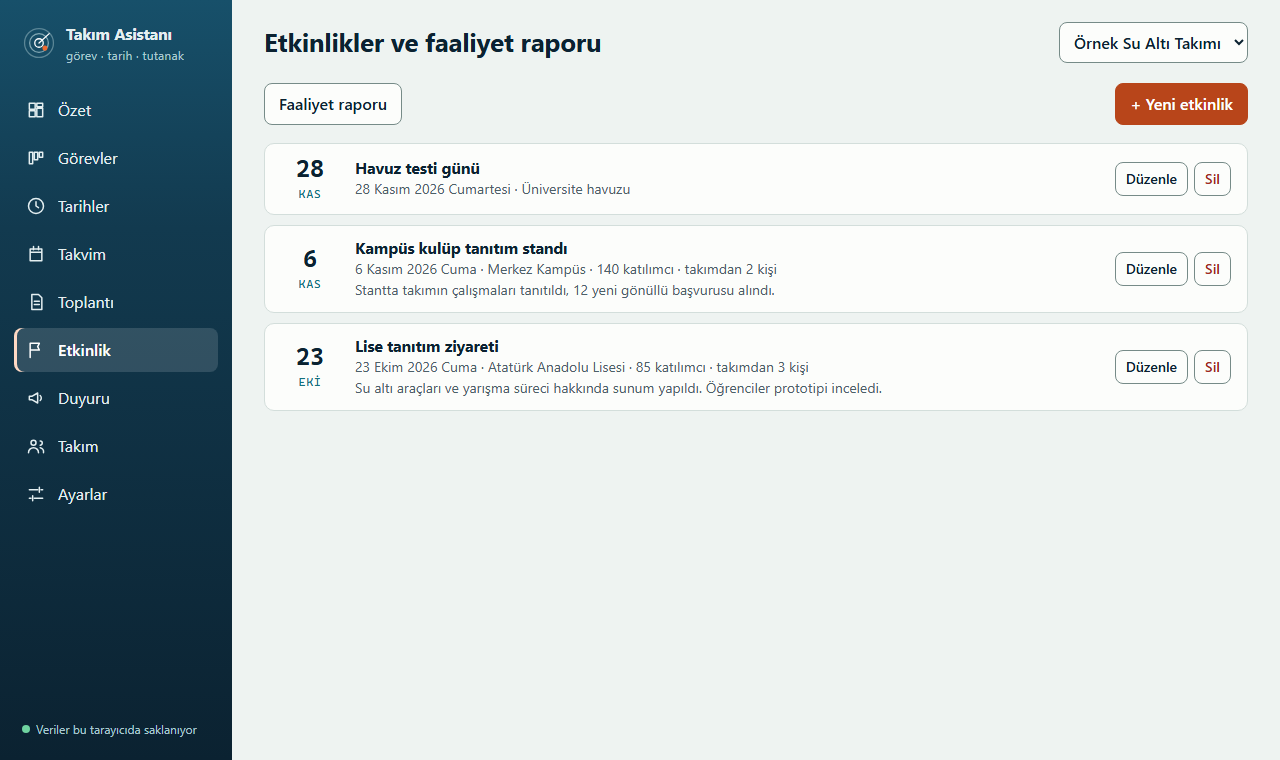
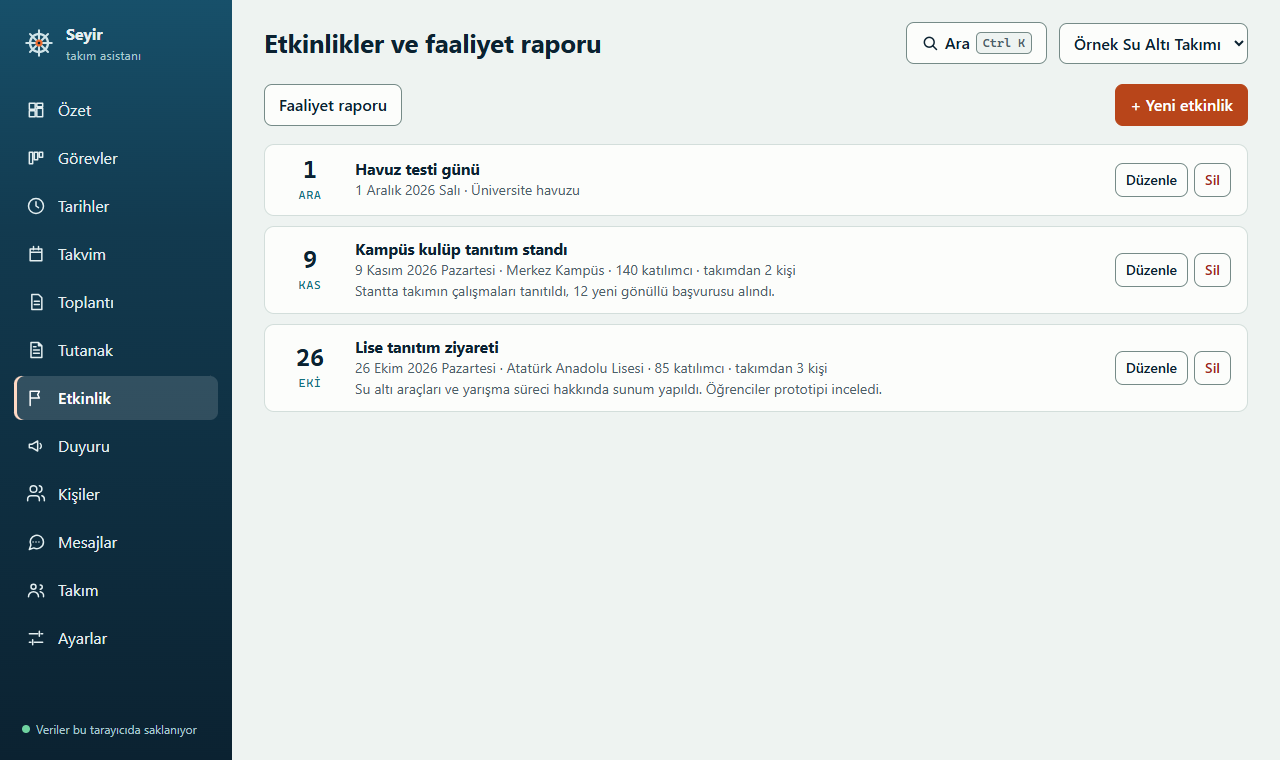
README: yeni özelliklerin ekran görüntüleri; arama kutusu ve tarih biçimi düzeltildi
Görüntüler uydurma örnek veriyle, yerel modda penceresiz Chrome ile alındı:
arama, sürüklenirken görev panosu, kararlardan görev, .ics düğmeli takvim,
serbest notların forma yerleşmesi. Arama kutusu diğer alanlar gibi biçimlenir,
sonuçlardaki tarihler '25 Kasım 2026' diye yazılır.

diff --git a/js/arayuz.js b/js/arayuz.js
@@ -295,7 +295,9 @@ async function aramaPenceresiAc() {
       '<li><button type="button" class="arama-oge" data-sira="' + sira + '">' +
       '<span class="arama-tur">' + htmlKacis(s.turAdi) + "</span>" +
       '<span class="arama-baslik">' + htmlKacis(s.baslik) + "</span>" +
-      (s.ayrinti ? '<span class="soluk kucuk-yazi">' + htmlKacis(s.ayrinti) + "</span>" : "") +
+      (s.ayrinti ? '<span class="soluk kucuk-yazi">' +
+        // "2026-11-25 · Atölye" -> "25 Kasım 2026 · Atölye"
+        htmlKacis(s.ayrinti.replace(/\d{4}-\d{2}-\d{2}/g, (t) => tarihGecerli(t) ? tarihYaz(t, false) : t)) + "</span>" : "") +
       "</button></li>").join("");
     durumYazi.textContent = kutu.value.trim()
       ? (sonuclar.length ? sonuclar.length + " sonuç" : "Sonuç yok")

diff --git a/css/stil.css b/css/stil.css
@@ -488,7 +488,7 @@ a { color: var(--su); }
 /* Form alanları */
 .alan { display: block; margin-bottom: 14px; }
 .alan > span, .alan > legend { display: block; margin-bottom: 4px; padding: 0; font-size: 14px; font-weight: 600; }
-.alan input[type="text"], .alan input[type="email"], .alan input[type="password"], .alan input[type="number"],
+.alan input[type="text"], .alan input[type="search"], .alan input[type="email"], .alan input[type="password"], .alan input[type="number"],
 .alan input[type="date"], .alan input[type="time"], .alan select, .alan textarea, .satir-form input {
   width: 100%; min-height: 42px; padding: 8px 10px;
   border: 1px solid var(--giris-cizgi); border-radius: 8px; background: var(--giris-zemin);

diff --git a/README.md b/README.md
@@ -59,17 +59,24 @@ yalnızca kendi takımına görünür. Örnek veri, testler ve ekran görüntül
 gerçek kişi yok (numaralar kullanılmayan `0500 000 00 xx` aralığında; bir test
 depoda gerçek görünen numara arar). Ücretli servis kullanılmaz.
 
-| Takvim | Görev panosu (koyu tema) |
+| Genel arama (Ctrl+K) | Görev panosu: kart sürüklenirken (koyu tema) |
 |---|---|
-| ![Takvim: son tarihler, toplantılar ve etkinlikler tek ayda](docs/ekran/takvim.png) | ![Görev panosu, koyu tema](docs/ekran/gorevler-koyu.png) |
+| ![Arama penceresi: "rapor" sorgusu bir görev, bir son tarih ve bir toplantı buluyor](docs/ekran/arama.png) | ![Koyu temada görev panosu; bir kart sürükleniyor, bırakılacak sütun kesik çizgiyle vurgulu](docs/ekran/gorevler-koyu.png) |
+
+| Resmî tutanak: kararlardan görev | Takvim ve .ics aktarımı |
+|---|---|
+| ![Tutanak görünümü: her kararın yanında "+ Görev yap" düğmesi, görevi olan kararda "Görev var" rozeti](docs/ekran/tutanak-gorev.png) | ![Takvim: son tarihler, toplantılar ve etkinlikler tek ayda; "Takvimime aktar (.ics)" düğmesi](docs/ekran/takvim.png) |
+
+| Başlıksız serbest notlar… | …forma kendiliğinden yerleşir |
+|---|---|
+| ![Not kutusuna yapıştırılmış, başlıksız serbest toplantı notları](docs/ekran/tutanak-notlar.png) | ![Aynı notlardan doldurulan form: katılımcılar, atıflı devreden karar ve kararlar](docs/ekran/tutanak-yerlesti.png) |
 
 | Etkinlikler | Dar ekran |
 |---|---|
 | ![Etkinlik listesi](docs/ekran/etkinlikler.png) | <img src="docs/ekran/mobil.png" alt="Dar ekranda görev panosu ve alt menü" width="300"> |
 
-<!-- Görüntüler örnek veriyle, araçla alındı (index.html?ornek=1).
-     Toplantı tutanağının ve kendi takımının görüntüsünü eklemek istersen
-     docs/ekran/ klasörüne koyup bu tabloya satır ekle. -->
+<!-- Görüntüler uydurma örnek veriyle (index.html?ornek=1, yerel mod), penceresiz
+     Chrome ile alındı. Kişiler ve kurum adları uydurmadır. -->
 
 ### Nasıl çalıştırılır?
 
@@ -221,6 +228,14 @@ in shared (Supabase) mode sign-in is required, sign-up is **invite-only** (the
 first account becomes admin), and row-level security limits every row to its
 team. Demo data, tests and screenshots contain no real people (a test scans
 the repo for real-looking phone numbers).
+
+| Search (Ctrl+K) | Official minutes: decisions → tasks |
+|---|---|
+| ![Search dialog: the query "rapor" finds a task, a deadline and a meeting](docs/ekran/arama.png) | ![Official minutes view with a "+ Görev yap" (make task) button next to each decision](docs/ekran/tutanak-gorev.png) |
+
+| Free-form notes… | …sorted into the form by rules |
+|---|---|
+| ![Pasted meeting notes without headings](docs/ekran/tutanak-notlar.png) | ![The same notes placed into participants, carried-over decision with citation, and decisions](docs/ekran/tutanak-yerlesti.png) |
 
 ### Running it
 
